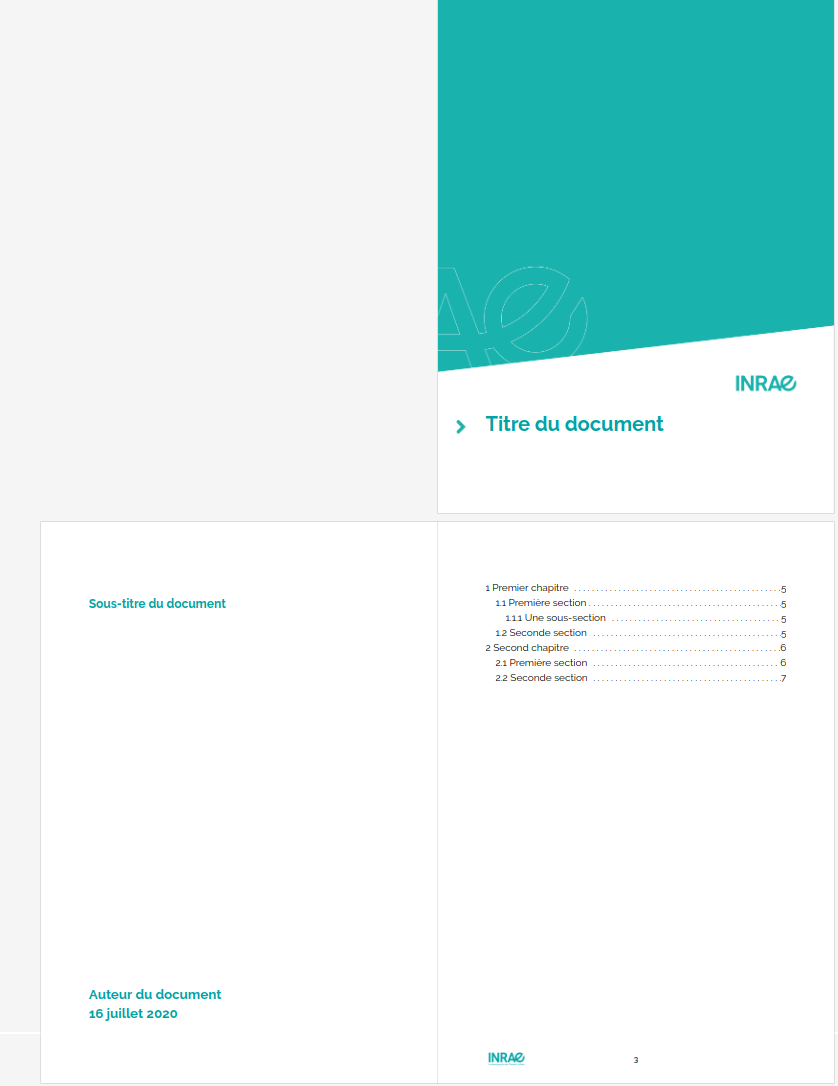
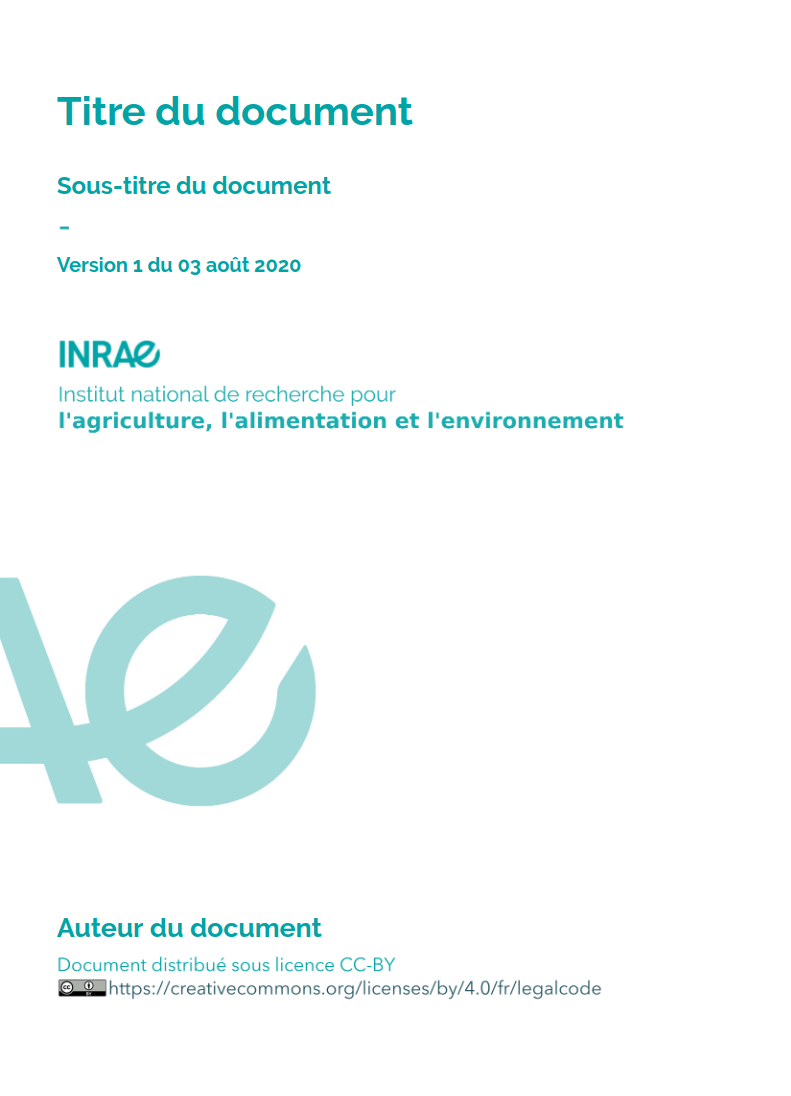
changed pdf report

diff --git a/inst/rmarkdown/templates/report_inrae_pagedown/skeleton/style/inrae.css b/inst/rmarkdown/templates/report_inrae_pagedown/skeleton/style/inrae.css
@@ -126,15 +126,13 @@ td {
 /* Exception H1 pour le titre */
 h1.title {
   margin-block-start: -1cm;
-  break-after: always;
+  break-after: avoid;
   color: #00a3a6;
   position: absolute;
-  bottom: 1.4cm;
-  left: 0cm;
+  bottom: 22.5cm;
+  left: -1cm;
   text-align: left;
-  margin-right: 0.1cm;
   margin-left: 0cm;
-  margin-bottom: 0.1cm;
   font-size: 30pt;
 }
 
@@ -144,18 +142,20 @@ h1.subtitle {
   break-after: avoid;
   color: #00a3a6;
   position: absolute;
-  bottom: 22cm;
-  text-align: right;
+  left: -1cm;
+  bottom: 21cm;
+  text-align: left;
   font-size: 20pt;
 }
 
 h2.author {
-  margin-block-start: -1cm;
+  margin-block-start: 0cm;
   break-after: avoid;
   color: #00a3a6;
   position: absolute;
-  top: 23cm;
-  text-align: right;
+  left: -1cm;
+  top: 22cm;
+  text-align: left;
   font-size: 20pt;
 }
 
@@ -164,9 +164,10 @@ h2.date {
   break-after: avoid;
   color: #00a3a6;
   position: absolute;
-  top: 24cm;
-  text-align: right;
-  font-size: 20pt;
+  bottom: 19cm;
+  left: -1cm;
+  text-align: left;
+  font-size: 15pt;
 }
 
 
